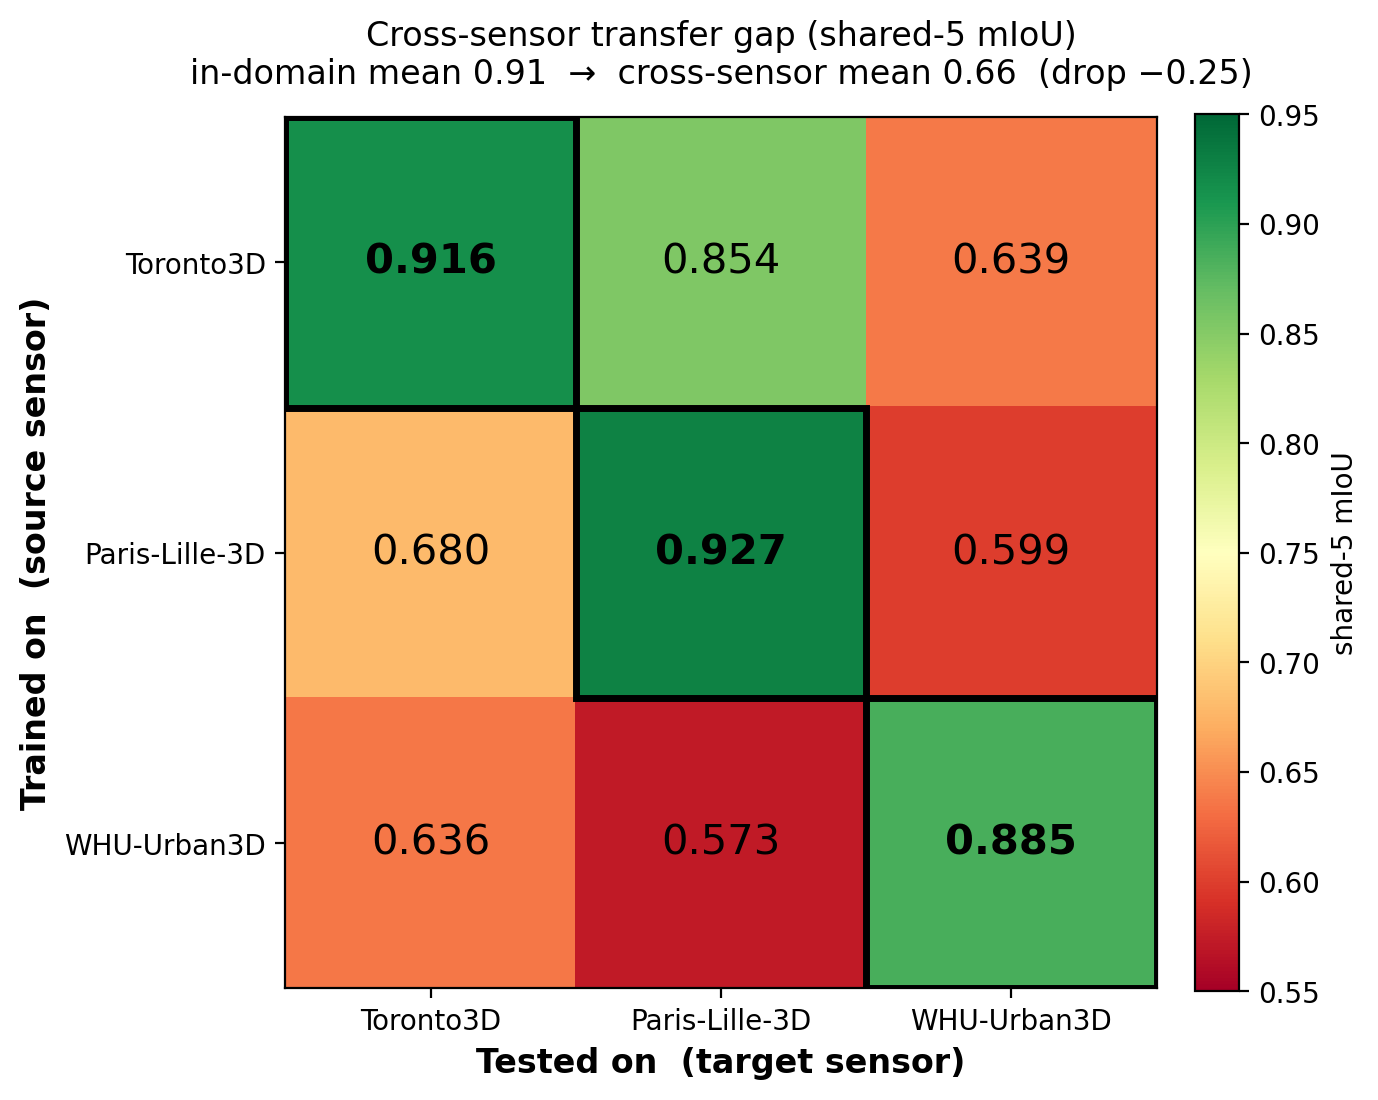
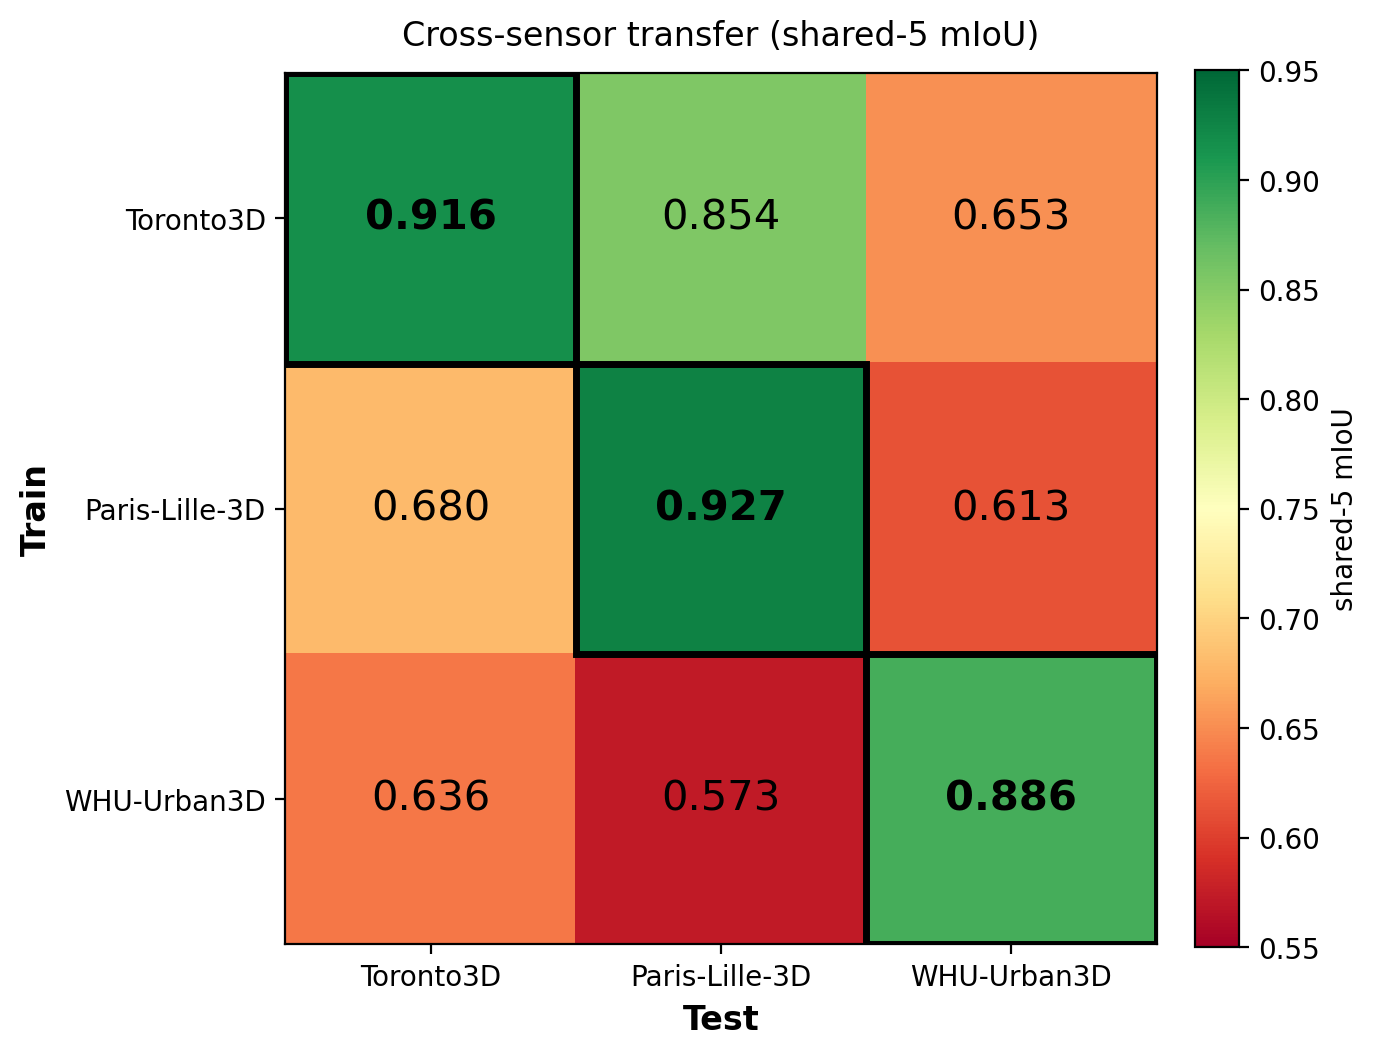
updated

diff --git a/README.md b/README.md
@@ -31,25 +31,25 @@ The three taxonomies are mapped to one 11-class space. A class a source does not
 
 ## Results
 
-**Cross-sensor gap.** In-domain shared-5 mIoU averages 0.91 and falls to 0.66 across sensors. The loss concentrates on poles and buildings.
+**Cross-sensor gap.** In-domain shared-5 mIoU averages 0.91 and falls to 0.67 across sensors. The loss concentrates on poles and buildings. All WHU-Urban3D scores use the corrected v1.1 labels.
 
-![3x3 cross-sensor transfer](assets/fig_cross_sensor_gap.png)
+<p align="center"><img src="assets/fig_cross_sensor_gap.png" alt="3x3 cross-sensor transfer" width="50%"></p>
 
 **Joint multi-sensor training (leave-one-sensor-out).** Training on the two remaining sensors beats the average single source on every held-out sensor, without any target labels.
 
 | Held-out mean, shared-5 mIoU | single seed | 3 seeds |
 |---|---|---|
-| Average single source (realistic baseline) | 0.664 | 0.664 |
-| Joint training, Recipe B (target-free) | 0.743 | 0.741 ± 0.007 |
-| + one self-training step on the target | 0.767 | 0.762 ± 0.007 |
-| Best single source (oracle, needs target labels) | 0.724 | |
+| Average single source (realistic baseline) | 0.668 | 0.668 |
+| Joint training, Recipe B (target-free) | 0.749 | 0.747 ± 0.003 |
+| + one self-training step on the target | 0.772 | 0.769 ± 0.005 |
+| Best single source (oracle, needs target labels) | 0.729 | |
 
-Joint training gains **+0.077 ± 0.007** over the average single source and reaches about **97 %** of the self-training score without touching the target.
+Joint training gains **+0.079 ± 0.003** over the average single source and reaches about **97 %** of the self-training score without touching the target.
 
 ![LOSO summary](assets/fig_loso_summary.png)
 ![LOSO qualitative results](assets/fig_loso_qualitative.png)
 
-**Intensity** helps only reflectance-defined classes such as road marking and transfers worst across sensors, so all cross-sensor models use coordinates only.
+**Intensity** helps reflectance-defined classes such as road marking in domain. Across sensors it helps only when each cloud is standardized with its own statistics, and then unevenly, so all cross-sensor models use coordinates only.
 
 ---
 
